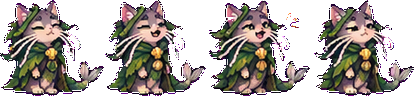
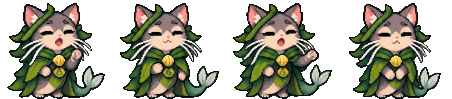
C14 P6: re-render the three colony elders (solid fills, real walk)

diff --git a/tools/slice_c14_art.py b/tools/slice_c14_art.py
@@ -249,6 +249,9 @@ def mg_jobs(check, man):
 REDRAWS = {
     "dark_crystal.png": ("enemies/dark_crystal", [("idle", 4), ("attack", 4), ("hurt", 2)], 22),  # shards join their core
     "elder_brine.png": ("characters/elder_brine", [("idle", 4), ("walk", 4), ("talk", 4), ("happy", 2), ("sad", 2)], 0),
+    "elder_cinderpaw.png": ("characters/elder_cinderpaw", [("idle", 4), ("walk", 4), ("talk", 4), ("happy", 2), ("sad", 2)], 0),
+    "elder_icewhisker.png": ("characters/elder_icewhisker", [("idle", 4), ("walk", 4), ("talk", 4), ("happy", 2), ("sad", 2)], 0),
+    "elder_tidewhisker.png": ("characters/elder_tidewhisker", [("idle", 4), ("walk", 4), ("talk", 4), ("happy", 2), ("sad", 2)], 0),
 }
 
 
